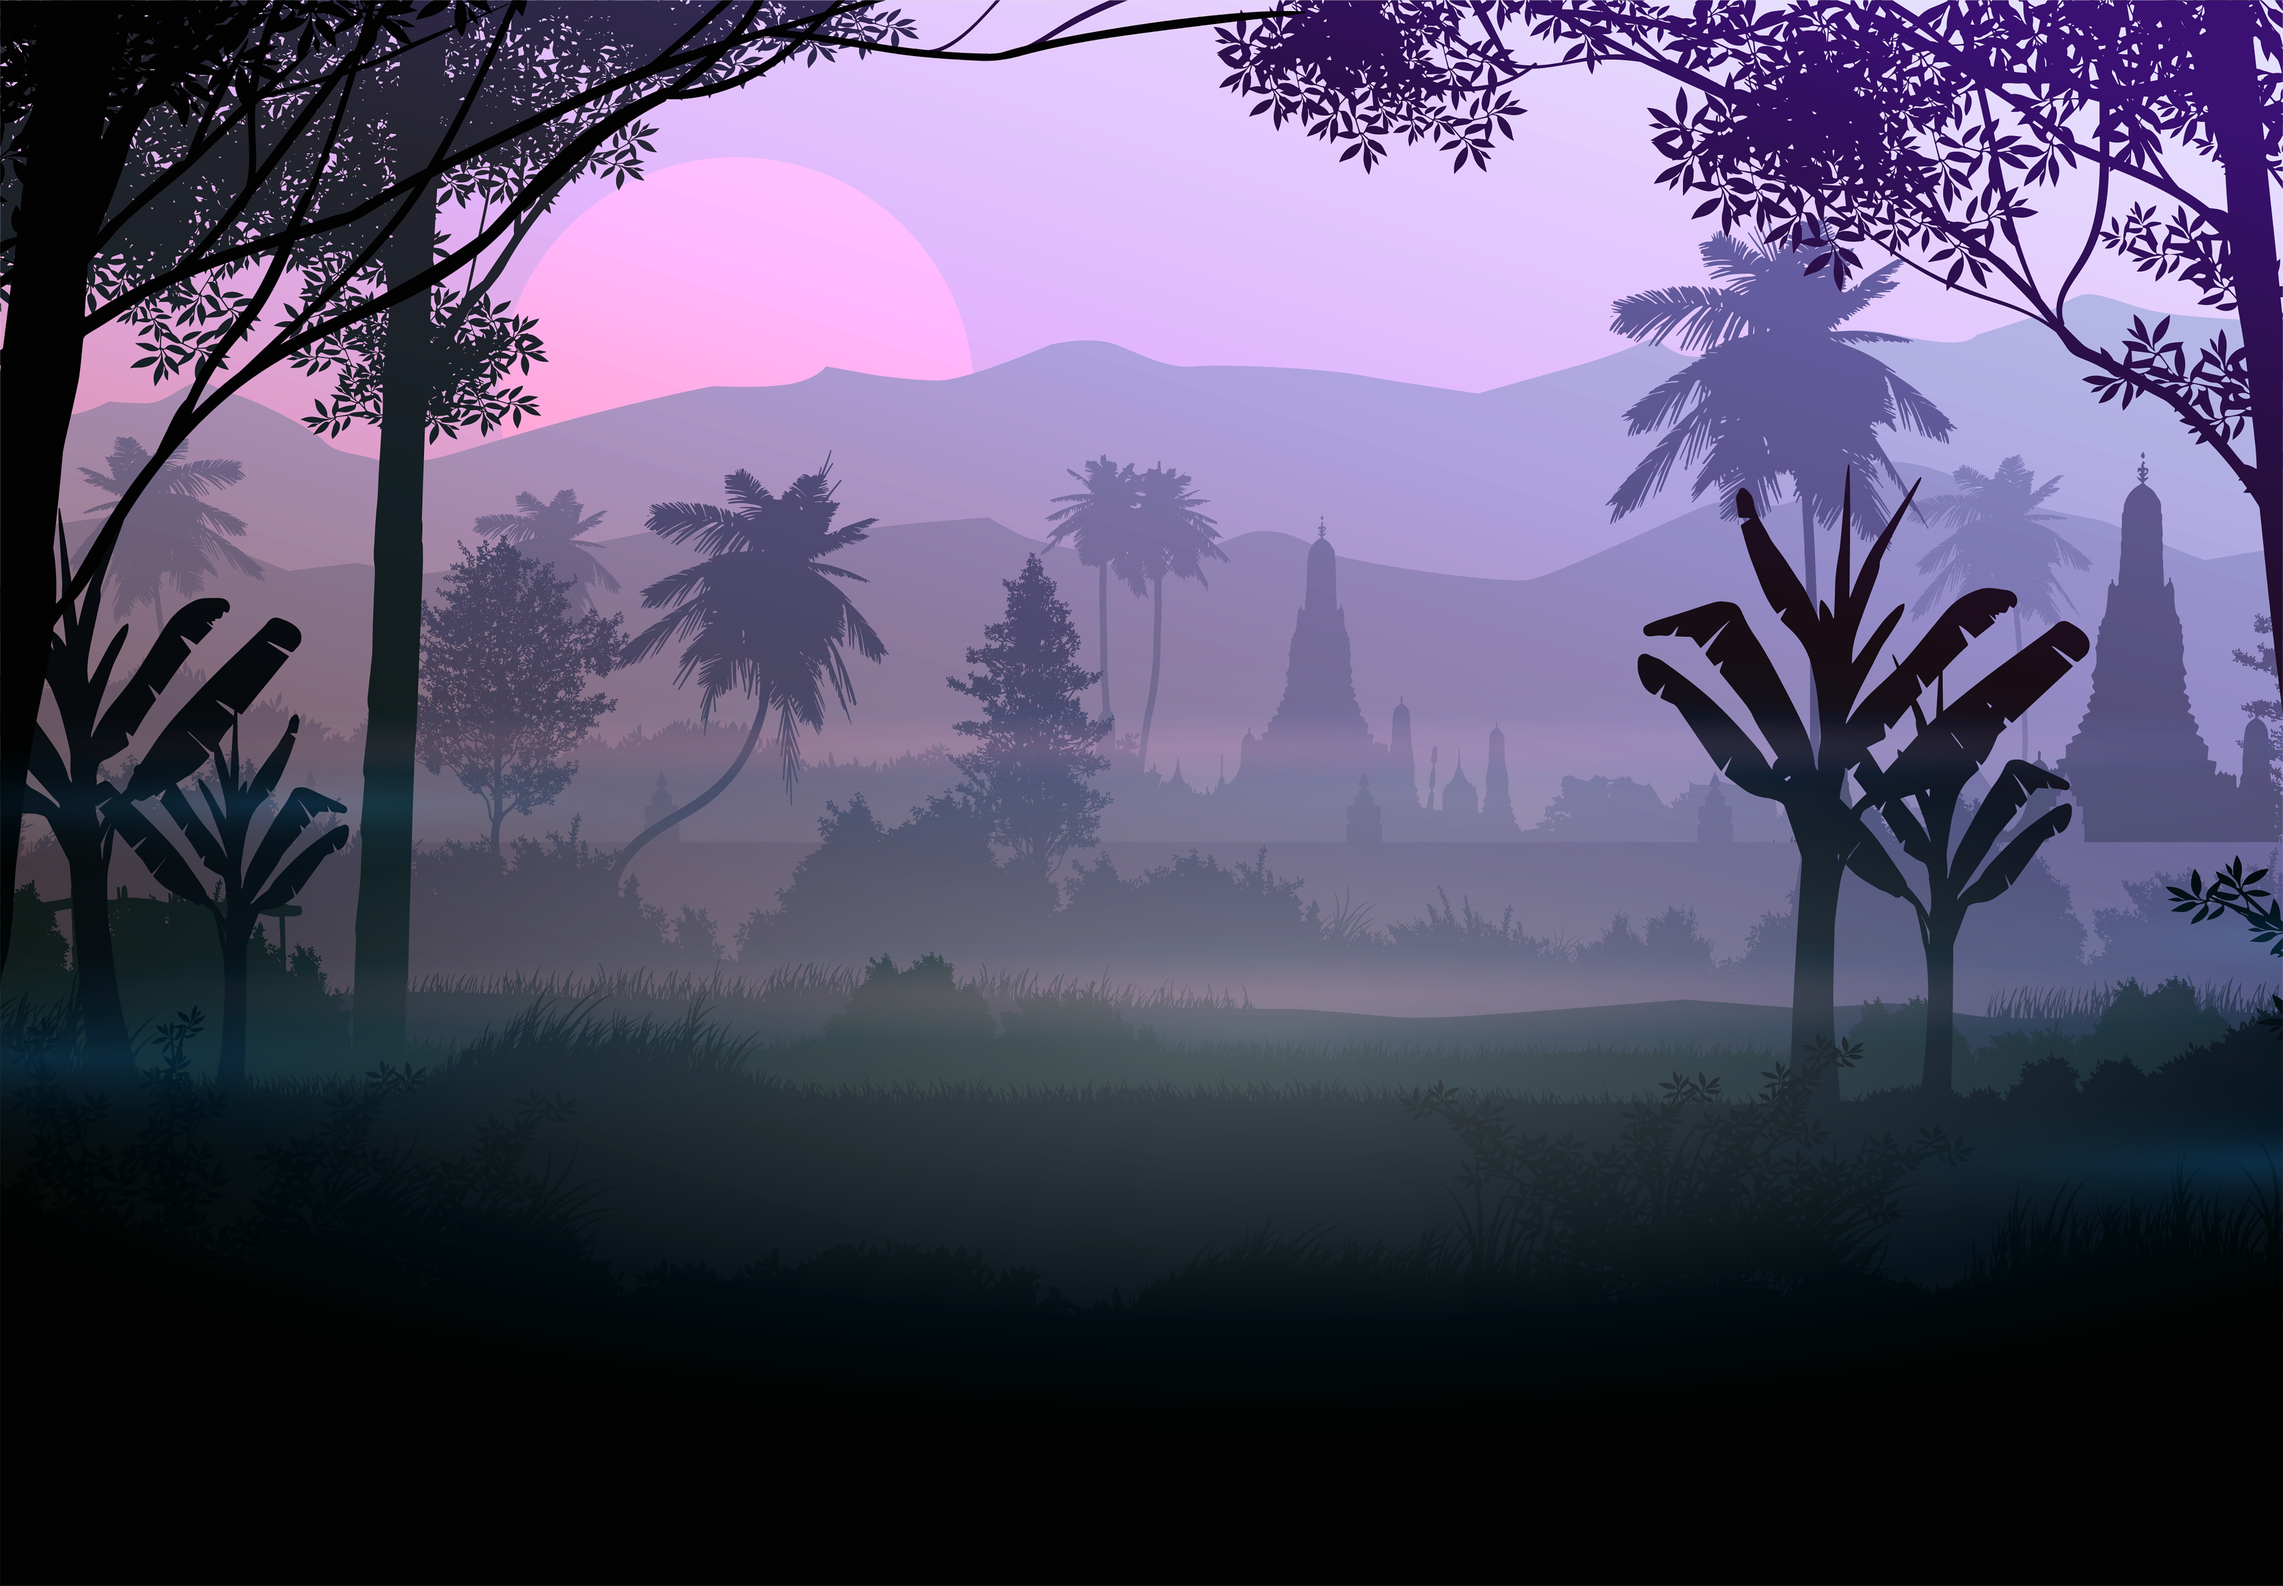
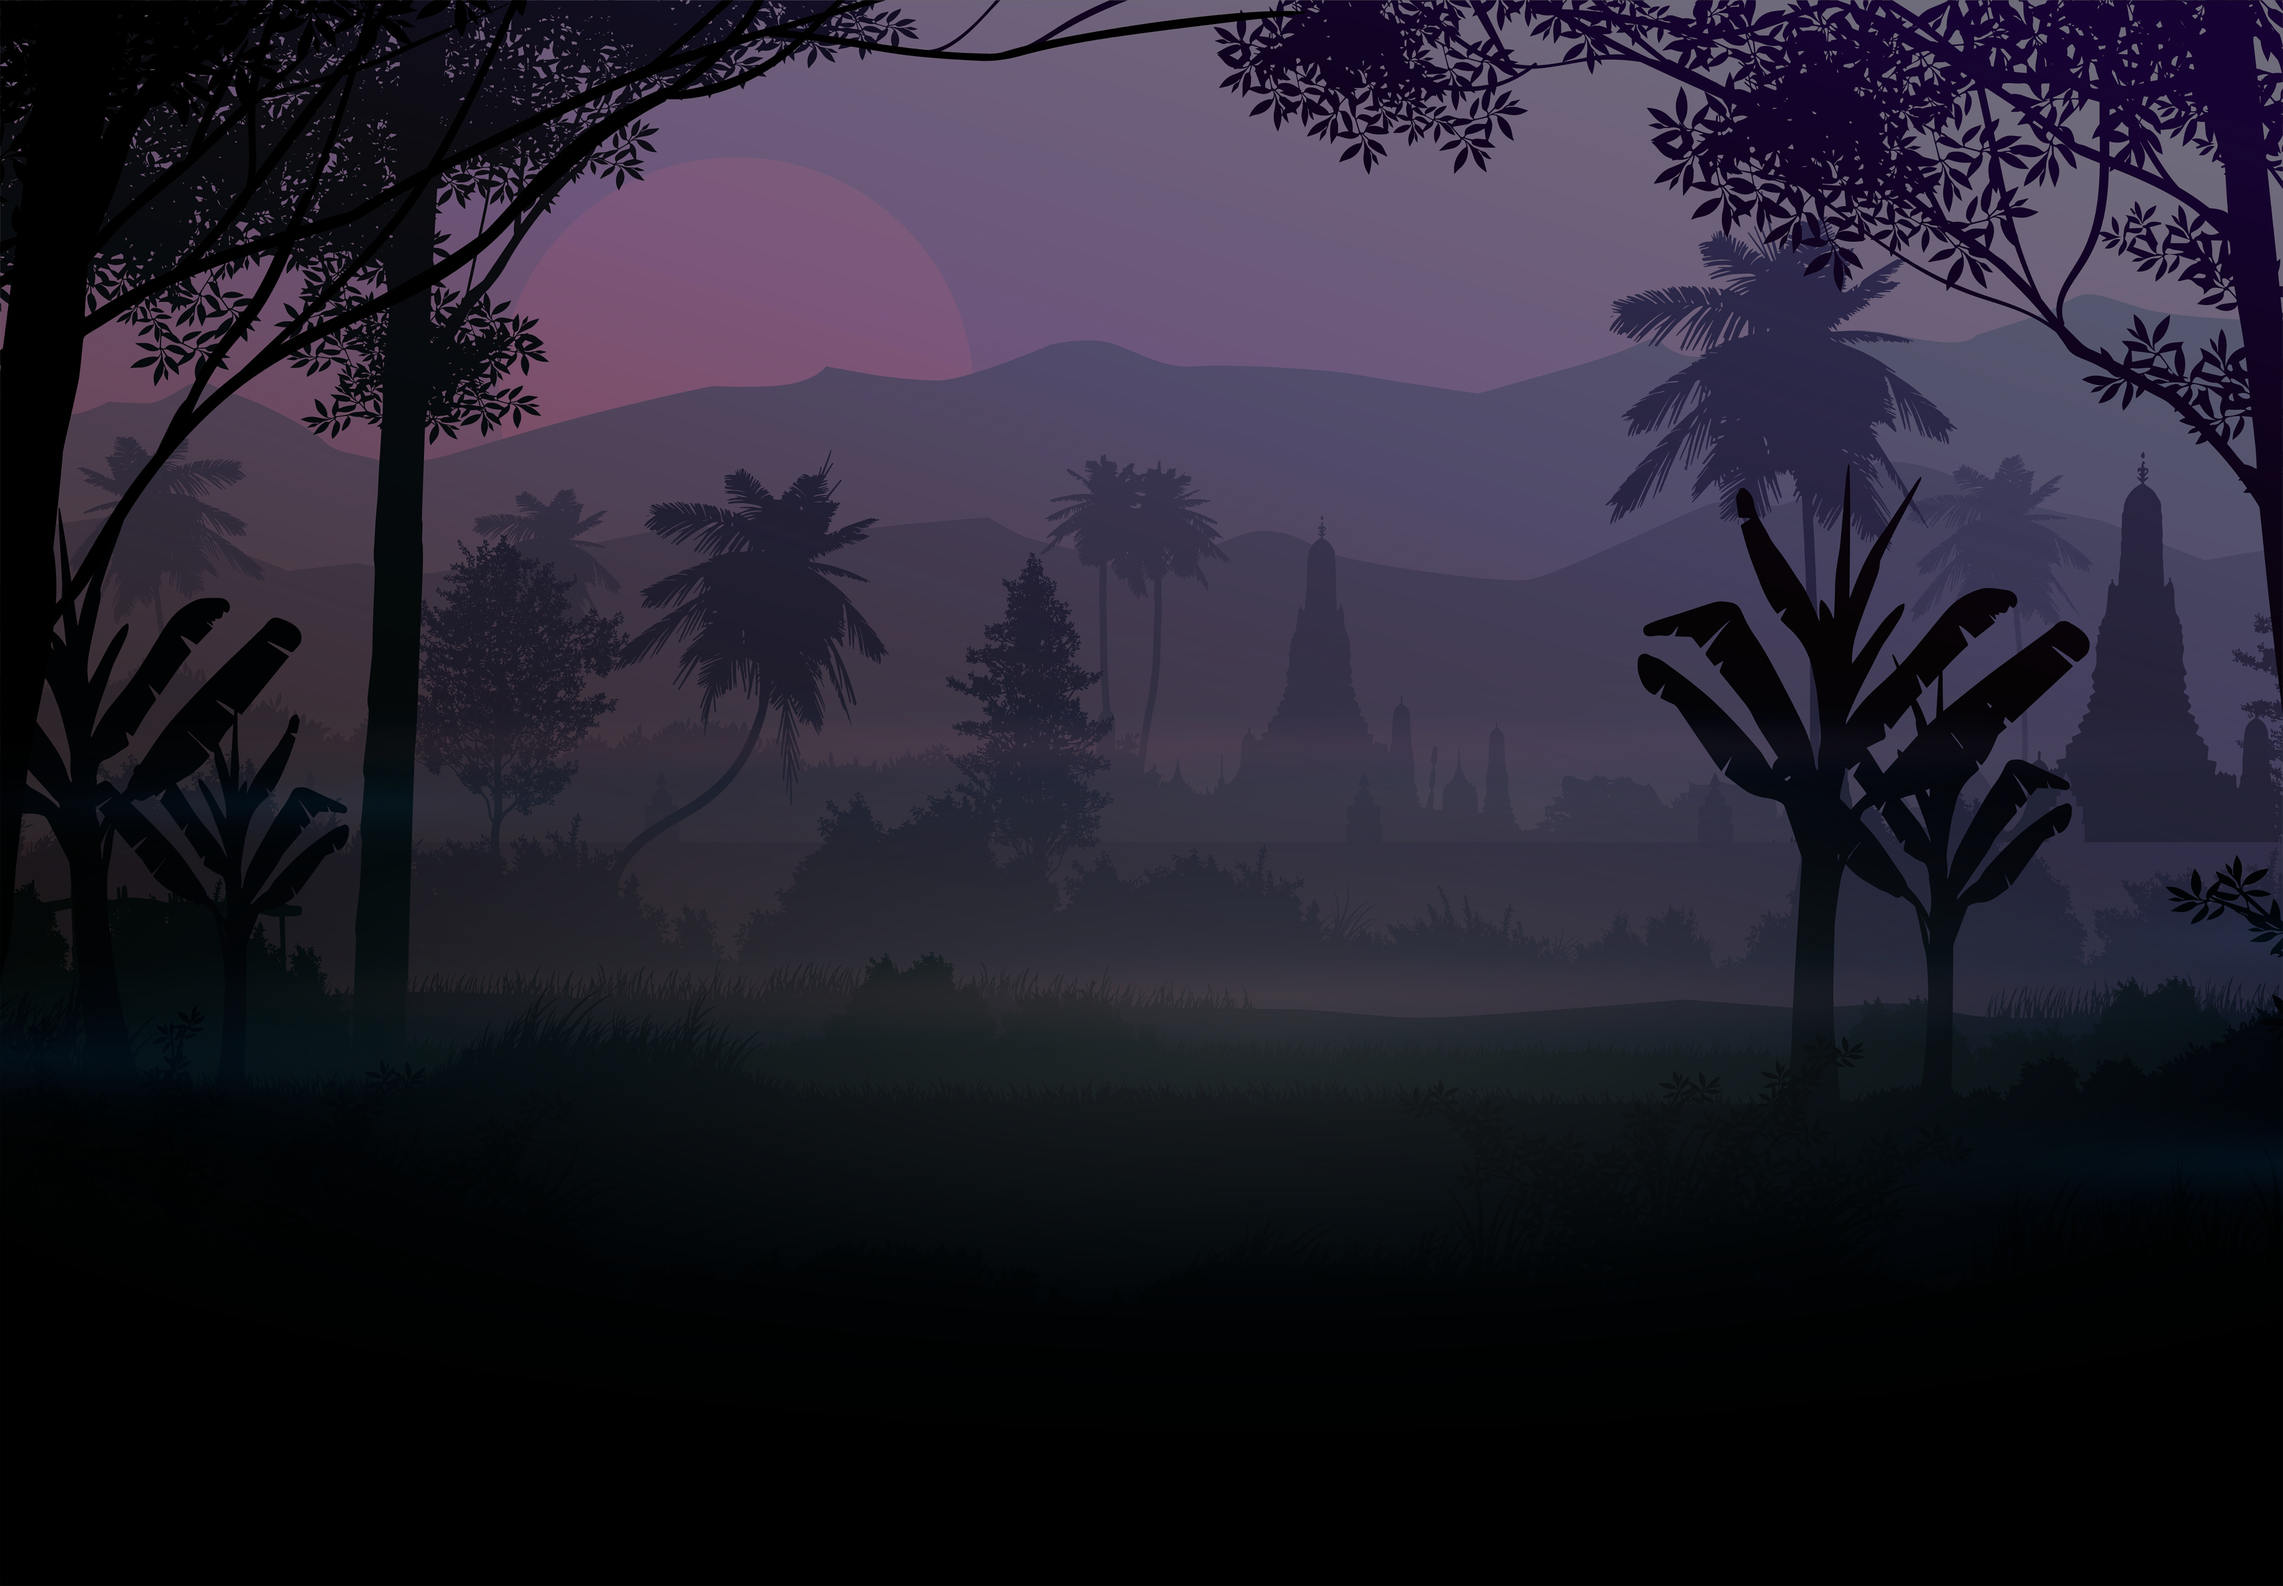
Weather App: Removed Darken
Removed darken div and instead just darkened the image to optimize site.

diff --git a/weather-app/assets/css/style.css b/weather-app/assets/css/style.css
@@ -18,12 +18,6 @@ img.bg {
   left: 0;
   z-index: -1;
 }
-.darken {
-  background: linear-gradient(rgba(0, 0, 0, 0.5), rgba(0, 0, 0, 0.5));
-  width: 100vw;
-  height: 100vh;
-  z-index: 0;
-}
 .content {
   display: grid;
   grid-template-columns: repeat(4, 1fr);
@@ -403,12 +397,6 @@ img.bg {
   .search {
     grid-area: 1 / 1 / 2 / 3;
     height: 50px;
-  }
-  .darken {
-    background: linear-gradient(rgba(0, 0, 0, 0.5), rgba(0, 0, 0, 0.5));
-    width: 100vw;
-    height: 230vh;
-    z-index: 0;
   }
   .weather {
     grid-area: 2 / 1 / 6 / 3;

diff --git a/weather-app/index.html b/weather-app/index.html
@@ -9,9 +9,8 @@
   <link href="https://fonts.googleapis.com/icon?family=Material+Icons" rel="stylesheet">
 </head>
 <body>
-  <img class="bg" src="./assets/img/background.jpg" />
-  <div class="darken"></div>
   <div class="content">
+    <img class="bg" src="./assets/img/background.jpg" />
     <div class="search">
       <form onsubmit="userSearch(event)" >
         <div class="search-box">
